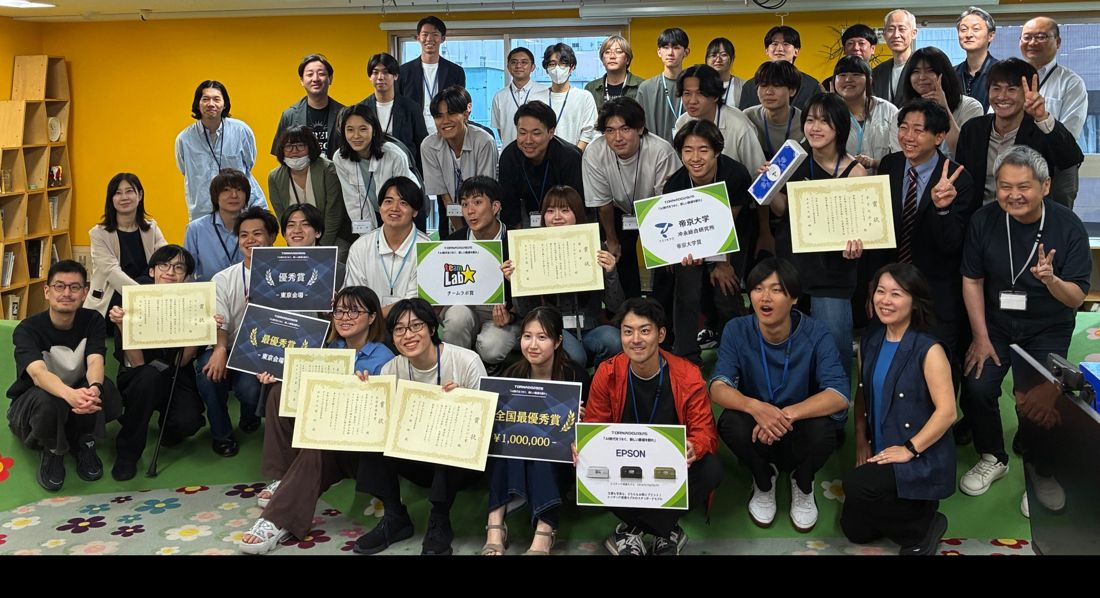
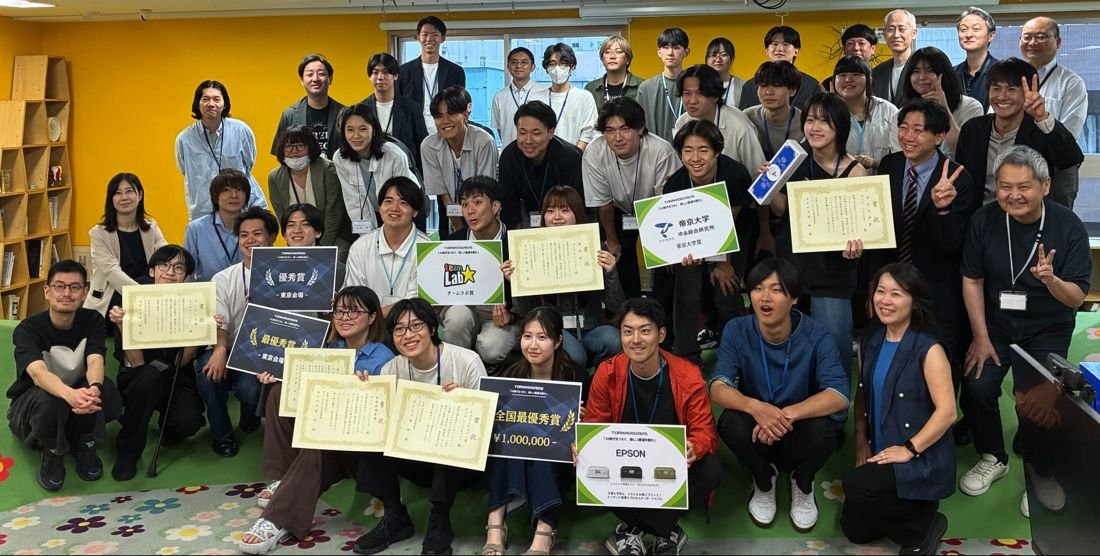
Show photos uncropped at natural aspect ratio
Claude-Session: https://claude.ai/code/session_01Q8KcYkazFbKCwR22VqtSzh

diff --git a/index.html b/index.html
@@ -271,18 +271,12 @@
   @media (max-width: 760px) { #about .facts { grid-template-columns: 1fr; } }
 
 
-  .ch-photos { display: flex; gap: 12px; margin-top: 18px; }
-  .ch-photos figure { flex: 1 1 0; max-width: 300px; }
-  .ch-photos img { width: 100%; height: 300px; object-fit: cover; object-position: center 20%; border-radius: 14px; }
-  .ch-photos figcaption { font-size: 13px; color: var(--sub); margin-top: 6px; }
-  @media (max-width: 560px) { .ch-photos img { height: 180px; } }
-
-
-  .stop-photos { display: flex; gap: 10px; margin-top: 14px; }
-  .stop-photos figure { flex: 1 1 0; }
-  .stop-photos img { width: 100%; height: 210px; object-fit: cover; object-position: center 15%; border-radius: 10px; }
-  .stop-photos figcaption { font-size: 12.5px; color: var(--sub); margin-top: 4px; }
-  @media (max-width: 640px) { .stop-photos { flex-direction: column; } .stop-photos img { height: 170px; } }
+  /* 写真：切り抜かずに元の比率で並べ、行の高さをそろえる */
+  .ch-photos, .stop-photos { display: flex; gap: 12px; margin-top: 18px; max-width: min(680px, 100%); align-items: flex-start; }
+  .ch-photos figure, .stop-photos figure { flex: var(--r, 1) 1 0; min-width: 0; margin: 0; }
+  .ch-photos img, .stop-photos img { display: block; width: 100%; height: auto; border-radius: 12px; }
+  .ch-photos figcaption, .stop-photos figcaption { font-size: 12.5px; color: var(--sub); margin-top: 6px; }
+  @media (max-width: 560px) { .ch-photos { gap: 8px; } .stop-photos { flex-direction: column; } }
 
   .contact-links { display: flex; flex-wrap: wrap; gap: 10px; margin-top: 22px; }
 
@@ -399,7 +393,7 @@
         <div class="ch-body">
           <h3>父の影響で、野球を始める</h3>
           <p>中日ドラゴンズの応援団をしていた父の影響で、3歳から野球を始めました。</p>
-          <div class="ch-photos"><figure><img src="assets/photos/dragons.jpg" alt="中日ドラゴンズの選手と写る幼いころの写真" loading="lazy"><figcaption>ドラゴンズのファンイベントで</figcaption></figure></div>
+          <div class="ch-photos"><figure style="--r:1.349"><img src="assets/photos/dragons.jpg" alt="中日ドラゴンズの選手と写る幼いころの写真" loading="lazy"><figcaption>ドラゴンズのファンイベントで</figcaption></figure></div>
         </div>
       </article>
 
@@ -408,7 +402,7 @@
         <div class="ch-body">
           <h3>仲間と野球に打ち込む</h3>
           <p>中学では仲間と過ごす野球を選び、中3で岐阜県選抜に選ばれました。このときの悔しさが、高校で甲子園を目指すきっかけになりました。</p>
-          <div class="ch-photos"><figure><img src="assets/photos/kid-batting.jpg" alt="小学生のころ打席に立つ写真" loading="lazy"><figcaption>小学生のころ</figcaption></figure><figure><img src="assets/photos/allgifu.jpg" alt="岐阜県選抜のユニフォームで送球する写真" loading="lazy"><figcaption>中学 岐阜県選抜</figcaption></figure></div>
+          <div class="ch-photos"><figure style="--r:0.383"><img src="assets/photos/kid-batting.jpg" alt="小学生のころ打席に立つ写真" loading="lazy"><figcaption>小学生のころ</figcaption></figure><figure style="--r:0.798"><img src="assets/photos/allgifu.jpg" alt="岐阜県選抜のユニフォームで送球する写真" loading="lazy"><figcaption>中学 岐阜県選抜</figcaption></figure></div>
         </div>
       </article>
 
@@ -417,7 +411,7 @@
         <div class="ch-body">
           <h3>選手から、チームを支えるデータアナリストへ</h3>
           <p>関商工の野球部でレギュラーをつかんだ直後にけがをし、約1年プレーできない時期がありました。そこで監督に相談し、対戦相手を分析するデータアナリストに。最後は大会中の練習メニューを任されるまでになりました。復帰後の最後の夏は、県ベスト4。支えてくれた家族への感謝を強く感じた3年間でした。</p>
-          <div class="ch-photos"><figure><img src="assets/photos/hs-swing.jpg" alt="高校の試合でスイングする写真" loading="lazy"><figcaption>関商工 野球部</figcaption></figure><figure><img src="assets/photos/hs-atbat.jpg" alt="高校の試合で打席に向かう写真" loading="lazy"><figcaption>最後の夏</figcaption></figure></div>
+          <div class="ch-photos"><figure style="--r:1.139"><img src="assets/photos/hs-swing.jpg" alt="高校の試合でスイングする写真" loading="lazy"><figcaption>関商工 野球部</figcaption></figure><figure style="--r:0.711"><img src="assets/photos/hs-atbat.jpg" alt="高校の試合で打席に向かう写真" loading="lazy"><figcaption>最後の夏</figcaption></figure></div>
           <blockquote>当たり前のことを、どれだけ当たり前にやるかが成功する道。<cite>高校の監督の言葉</cite></blockquote>
         </div>
       </article>
@@ -477,13 +471,13 @@
         <li class="stop hu"><div class="when">2026.07</div><div class="dot"></div><div class="card themed" style="--theme:#1E6B4A;--logo:url(assets/logo-starbucks.png)"><h3><img src="assets/logo-starbucks.png" alt=""><span><a class="ext" href="https://www.starbucks.co.jp/" target="_blank" rel="noopener">スターバックス</a>でアルバイト</span></h3><p>お客様一人ひとりが満足して帰れる接客を意識。対話から満足をつくる姿勢は、アプリづくりでも一番大事にしている。</p></div></li>
         <li class="stop both"><div class="when">2026.08</div><div class="dot"></div><div class="card themed" style="--theme:#E07B2A;--logo:url(assets/logo-hackit.png)"><h3><img src="assets/logo-hackit.png" alt="">Hackit2026 に運営と出場の両方で参加</h3><p>初めてのハッカソン。アイデア出しの難しさと、チームで形にする面白さを知った。</p></div></li>
         <li class="stop ai"><div class="when">2026.08</div><div class="dot"></div><div class="card themed" style="--theme:#1F3F8F;--logo:url(assets/logo-kit.png)"><h3><img src="assets/logo-kit.png" alt="">夏期集中講座で AI を集中的に学ぶ</h3><p>AIプログラミング入門、AI応用Ⅱ（自然言語処理）、情報ネットワーク基礎、ビジネス思考法入門。数理リテラシー特別講座も2つ修了。</p></div></li>
-        <li class="stop both big"><div class="when">2026.09</div><div class="dot"></div><div class="card themed" style="--theme:#18202B;--logo:url(assets/logo-tornado.png)"><h3><img src="assets/logo-tornado.png" alt="">Tornado2026 で企業賞</h3><p>6人チームのPMとして、地域の困りごとと大学生をつなぐ「Fitt0」を企画。良いものを作るだけでなく、お金になる形にして初めて価値が届くと学んだ。<a class="ext" href="https://www.youtube.com/watch?v=nB_QOWTI4G8" target="_blank" rel="noopener">紹介動画</a></p><div class="stop-photos"><figure><img src="assets/photos/tornado-team.jpg" alt="Tornado2026 で表彰されたチームの写真" loading="lazy"><figcaption>チームDで企業賞を受賞</figcaption></figure><figure><img src="assets/photos/tornado-all.jpg" alt="Tornado2026 東京会場の参加者の集合写真" loading="lazy"><figcaption>東京会場のみんなと</figcaption></figure></div><span class="award">企業賞</span></div></li>
+        <li class="stop both big"><div class="when">2026.09</div><div class="dot"></div><div class="card themed" style="--theme:#18202B;--logo:url(assets/logo-tornado.png)"><h3><img src="assets/logo-tornado.png" alt="">Tornado2026 で企業賞</h3><p>6人チームのPMとして、地域の困りごとと大学生をつなぐ「Fitt0」を企画。良いものを作るだけでなく、お金になる形にして初めて価値が届くと学んだ。<a class="ext" href="https://www.youtube.com/watch?v=nB_QOWTI4G8" target="_blank" rel="noopener">紹介動画</a></p><div class="stop-photos"><figure style="--r:1.491"><img src="assets/photos/tornado-team.jpg" alt="Tornado2026 で表彰されたチームの写真" loading="lazy"><figcaption>チームDで企業賞を受賞</figcaption></figure><figure style="--r:1.978"><img src="assets/photos/tornado-all.jpg" alt="Tornado2026 東京会場の参加者の集合写真" loading="lazy"><figcaption>東京会場のみんなと</figcaption></figure></div><span class="award">企業賞</span></div></li>
         <li class="stop hu"><div class="when">2026.09</div><div class="dot"></div><div class="card themed" style="--theme:#1F3F8F;--logo:url(assets/logo-kit.png)"><h3><img src="assets/logo-kit.png" alt="">学長褒賞（学業）</h3><p>教育補助員を含めた学び合いを進め、学力向上に貢献したことで推薦をいただいた。</p><span class="award">学長褒賞</span></div></li>
         <li class="stop ai"><div class="when">2026.09</div><div class="dot"></div><div class="card themed" style="--theme:#5B2C91;--logo:url(assets/logo-bitgrit.png)"><h3><img src="assets/logo-bitgrit.png" alt="">BitGrit のコンペで 223人中 9位</h3><p>上位4%。LightGBM を中心に、特徴量とパラメータの調整を重ねた。</p></div></li>
         <li class="stop both"><div class="when">2026.10</div><div class="dot"></div><div class="card themed" style="--theme:#E3262E;--logo:url(assets/logo-gnomatic.png)"><h3><img src="assets/logo-gnomatic.png" alt="">Gnomatic で石川県の AI・DX 推進</h3><p>学部4年の先輩たちと、企業との面談で課題を聞き、IT で価値を返す活動を始めた。都市ではない地域ほど AI・DX が遅れていると感じた。</p></div></li>
         <li class="stop ai"><div class="when">2026.10</div><div class="dot"></div><div class="card themed" style="--theme:#1F3F8F;--logo:url(assets/logo-kit.png)"><h3><img src="assets/logo-kit.png" alt="">山本研究室の研究室体験</h3><p>母校の野球部と連携し、測定会のデータを見える化するアプリを開発中。研究テーマは「高校野球選手の冬季トレーニングと体組成」。</p></div></li>
         <li class="stop ai"><div class="when">2026.10</div><div class="dot"></div><div class="card themed" style="--theme:#3F9BE0;--logo:url(assets/logo-jphacks.png)"><h3><img src="assets/logo-jphacks.png" alt="">JPHACKS 2026 に出場</h3><p>旅行の行き先を地図から選べる Web アプリ「<a class="ext" href="https://kz-2609.vercel.app/" target="_blank" rel="noopener">旅行どこいこう</a>」を開発。</p></div></li>
-        <li class="stop hu"><div class="when">2026.10</div><div class="dot"></div><div class="card"><h3>100km 歩行を完歩</h3><p>寝る間もなく足が限界になる中、仲間と助け合って歩き切った。</p><div class="stop-photos"><figure><img src="assets/photos/walk100.jpg" alt="100km歩行のゴールで仲間と記念撮影" loading="lazy" style="height:auto;aspect-ratio:1740/1270;object-position:center"><figcaption>工大祭 100km歩行。一緒に歩いた仲間とゴールで</figcaption></figure></div></div></li>
+        <li class="stop hu"><div class="when">2026.10</div><div class="dot"></div><div class="card"><h3>100km 歩行を完歩</h3><p>寝る間もなく足が限界になる中、仲間と助け合って歩き切った。</p><div class="stop-photos"><figure style="--r:1.370"><img src="assets/photos/walk100.jpg" alt="100km歩行のゴールで仲間と記念撮影" loading="lazy"><figcaption>工大祭 100km歩行。一緒に歩いた仲間とゴールで</figcaption></figure></div></div></li>
         <li class="stop hu"><div class="when">2026.11</div><div class="dot"></div><div class="card themed" style="--theme:#18202B;--logo:url(assets/logo-devhub.png)"><h3><img src="assets/logo-devhub.png" alt=""><span><a class="ext" href="https://developershub.jp/" target="_blank" rel="noopener">Developers Hub</a> でスポンサー企業と面談</span></h3><p>2027年9月の<a class="ext" href="https://hokuriku-it-conf.com/" target="_blank" rel="noopener">北陸ITカンファレンス</a>に向けて、スポンサーチームとして企業との面談を重ねた。</p></div></li>
         <li class="stop ai"><div class="when">2026.11</div><div class="dot"></div><div class="card themed" style="--theme:#D9662B;--logo:url(assets/logo-laime.png)"><h3><img src="assets/logo-laime.png" alt="">LAIME Kaggle Dojo 第3期生</h3><p>Kaggle Grandmaster・Master の指導のもと、メダル獲得を目指す半年間のプログラム。</p></div></li>
         <li class="stop ai"><div class="when">2026.11</div><div class="dot"></div><div class="card themed devfest" style="--theme:#4285F4;--logo:url(assets/logo-devfest.png)"><h3><img src="assets/logo-devfest.png" alt="">DevFest GDGoC Japan Hackathon 2026</h3><p>Google Cloud と Gemini を使ったプロダクト開発に挑戦中。</p></div></li>

diff --git a/en/index.html b/en/index.html
@@ -271,18 +271,12 @@
   @media (max-width: 760px) { #about .facts { grid-template-columns: 1fr; } }
 
 
-  .ch-photos { display: flex; gap: 12px; margin-top: 18px; }
-  .ch-photos figure { flex: 1 1 0; max-width: 300px; }
-  .ch-photos img { width: 100%; height: 300px; object-fit: cover; object-position: center 20%; border-radius: 14px; }
-  .ch-photos figcaption { font-size: 13px; color: var(--sub); margin-top: 6px; }
-  @media (max-width: 560px) { .ch-photos img { height: 180px; } }
-
-
-  .stop-photos { display: flex; gap: 10px; margin-top: 14px; }
-  .stop-photos figure { flex: 1 1 0; }
-  .stop-photos img { width: 100%; height: 210px; object-fit: cover; object-position: center 15%; border-radius: 10px; }
-  .stop-photos figcaption { font-size: 12.5px; color: var(--sub); margin-top: 4px; }
-  @media (max-width: 640px) { .stop-photos { flex-direction: column; } .stop-photos img { height: 170px; } }
+  /* 写真：切り抜かずに元の比率で並べ、行の高さをそろえる */
+  .ch-photos, .stop-photos { display: flex; gap: 12px; margin-top: 18px; max-width: min(680px, 100%); align-items: flex-start; }
+  .ch-photos figure, .stop-photos figure { flex: var(--r, 1) 1 0; min-width: 0; margin: 0; }
+  .ch-photos img, .stop-photos img { display: block; width: 100%; height: auto; border-radius: 12px; }
+  .ch-photos figcaption, .stop-photos figcaption { font-size: 12.5px; color: var(--sub); margin-top: 6px; }
+  @media (max-width: 560px) { .ch-photos { gap: 8px; } .stop-photos { flex-direction: column; } }
 
   .contact-links { display: flex; flex-wrap: wrap; gap: 10px; margin-top: 22px; }
 
@@ -399,7 +393,7 @@
         <div class="ch-body">
           <h3>Starting baseball because of my dad</h3>
           <p>My father was part of the Chunichi Dragons cheering squad, and that is how I started playing baseball at age 3.</p>
-          <div class="ch-photos"><figure><img src="../assets/photos/dragons.jpg" alt="A childhood photo with a Chunichi Dragons player" loading="lazy"><figcaption>At a Dragons fan event</figcaption></figure></div>
+          <div class="ch-photos"><figure style="--r:1.349"><img src="../assets/photos/dragons.jpg" alt="A childhood photo with a Chunichi Dragons player" loading="lazy"><figcaption>At a Dragons fan event</figcaption></figure></div>
         </div>
       </article>
 
@@ -408,7 +402,7 @@
         <div class="ch-body">
           <h3>Baseball with my friends</h3>
           <p>In junior high, I chose to play with my friends, and in my third year I was selected for the Gifu Prefecture all-star team. The frustration I felt there made me set my sights on Koshien in high school.</p>
-          <div class="ch-photos"><figure><img src="../assets/photos/kid-batting.jpg" alt="A photo of me at bat in elementary school" loading="lazy"><figcaption>Elementary school</figcaption></figure><figure><img src="../assets/photos/allgifu.jpg" alt="A photo of me throwing in the Gifu all-star uniform" loading="lazy"><figcaption>Junior high, Gifu all-stars</figcaption></figure></div>
+          <div class="ch-photos"><figure style="--r:0.383"><img src="../assets/photos/kid-batting.jpg" alt="A photo of me at bat in elementary school" loading="lazy"><figcaption>Elementary school</figcaption></figure><figure style="--r:0.798"><img src="../assets/photos/allgifu.jpg" alt="A photo of me throwing in the Gifu all-star uniform" loading="lazy"><figcaption>Junior high, Gifu all-stars</figcaption></figure></div>
         </div>
       </article>
 
@@ -417,7 +411,7 @@
         <div class="ch-body">
           <h3>From player to the team&#x27;s data analyst</h3>
           <p>Right after earning a starting spot on the Sekishoko High School team, I got injured and could not play for about a year. I asked the coach if I could help as a data analyst and studied our opponents. In the end, I was trusted to plan the team&#x27;s practice menu during tournaments. After I came back, we reached the top 4 in the prefecture in my final summer. Those three years taught me how grateful I am to my family for their support.</p>
-          <div class="ch-photos"><figure><img src="../assets/photos/hs-swing.jpg" alt="A photo of me swinging in a high school game" loading="lazy"><figcaption>Sekishoko baseball team</figcaption></figure><figure><img src="../assets/photos/hs-atbat.jpg" alt="A photo of me stepping up to bat in a high school game" loading="lazy"><figcaption>My final summer</figcaption></figure></div>
+          <div class="ch-photos"><figure style="--r:1.139"><img src="../assets/photos/hs-swing.jpg" alt="A photo of me swinging in a high school game" loading="lazy"><figcaption>Sekishoko baseball team</figcaption></figure><figure style="--r:0.711"><img src="../assets/photos/hs-atbat.jpg" alt="A photo of me stepping up to bat in a high school game" loading="lazy"><figcaption>My final summer</figcaption></figure></div>
           <blockquote>The road to success is doing the obvious things, obviously well, every time.<cite>Words from my high school coach</cite></blockquote>
         </div>
       </article>
@@ -477,13 +471,13 @@
         <li class="stop hu"><div class="when">2026.07</div><div class="dot"></div><div class="card themed" style="--theme:#1E6B4A;--logo:url(../assets/logo-starbucks.png)"><h3><img src="../assets/logo-starbucks.png" alt=""><span><a class="ext" href="https://www.starbucks.co.jp/" target="_blank" rel="noopener">Starbucks</a> part-time job</span></h3><p>I try to make sure every customer leaves happy. Creating satisfaction through dialogue is also what I value most when building apps.</p></div></li>
         <li class="stop both"><div class="when">2026.08</div><div class="dot"></div><div class="card themed" style="--theme:#E07B2A;--logo:url(../assets/logo-hackit.png)"><h3><img src="../assets/logo-hackit.png" alt="">Hackit2026, as both organizer and participant</h3><p>My first hackathon. I learned how hard idea generation is, and how fun it is to build something as a team.</p></div></li>
         <li class="stop ai"><div class="when">2026.08</div><div class="dot"></div><div class="card themed" style="--theme:#1F3F8F;--logo:url(../assets/logo-kit.png)"><h3><img src="../assets/logo-kit.png" alt="">Intensive summer courses in AI</h3><p>Intro to AI Programming, Applied AI II (Natural Language Processing), Network Fundamentals and Intro to Business Thinking. Also completed two special math literacy courses.</p></div></li>
-        <li class="stop both big"><div class="when">2026.09</div><div class="dot"></div><div class="card themed" style="--theme:#18202B;--logo:url(../assets/logo-tornado.png)"><h3><img src="../assets/logo-tornado.png" alt="">Corporate Award at Tornado2026</h3><p>As PM of a team of six, I planned Fitt0, a service connecting local problems with university students. I learned that value only reaches people when a good product can also make money.<a class="ext" href="https://www.youtube.com/watch?v=nB_QOWTI4G8" target="_blank" rel="noopener">Intro video</a></p><div class="stop-photos"><figure><img src="../assets/photos/tornado-team.jpg" alt="Our team receiving the award at Tornado2026" loading="lazy"><figcaption>Team D won the Corporate Award</figcaption></figure><figure><img src="../assets/photos/tornado-all.jpg" alt="Group photo of everyone at the Tornado2026 Tokyo venue" loading="lazy"><figcaption>With everyone at the Tokyo venue</figcaption></figure></div><span class="award">Corporate Award</span></div></li>
+        <li class="stop both big"><div class="when">2026.09</div><div class="dot"></div><div class="card themed" style="--theme:#18202B;--logo:url(../assets/logo-tornado.png)"><h3><img src="../assets/logo-tornado.png" alt="">Corporate Award at Tornado2026</h3><p>As PM of a team of six, I planned Fitt0, a service connecting local problems with university students. I learned that value only reaches people when a good product can also make money.<a class="ext" href="https://www.youtube.com/watch?v=nB_QOWTI4G8" target="_blank" rel="noopener">Intro video</a></p><div class="stop-photos"><figure style="--r:1.491"><img src="../assets/photos/tornado-team.jpg" alt="Our team receiving the award at Tornado2026" loading="lazy"><figcaption>Team D won the Corporate Award</figcaption></figure><figure style="--r:1.978"><img src="../assets/photos/tornado-all.jpg" alt="Group photo of everyone at the Tornado2026 Tokyo venue" loading="lazy"><figcaption>With everyone at the Tokyo venue</figcaption></figure></div><span class="award">Corporate Award</span></div></li>
         <li class="stop hu"><div class="when">2026.09</div><div class="dot"></div><div class="card themed" style="--theme:#1F3F8F;--logo:url(../assets/logo-kit.png)"><h3><img src="../assets/logo-kit.png" alt="">President&#x27;s Commendation (academics)</h3><p>Recommended for helping classmates learn together, including as a teaching assistant, and raising academic performance.</p><span class="award">President&#x27;s Commendation</span></div></li>
         <li class="stop ai"><div class="when">2026.09</div><div class="dot"></div><div class="card themed" style="--theme:#5B2C91;--logo:url(../assets/logo-bitgrit.png)"><h3><img src="../assets/logo-bitgrit.png" alt="">9th of 223 in a BitGrit competition</h3><p>Top 4%. I iterated on features and parameters, mainly with LightGBM.</p></div></li>
         <li class="stop both"><div class="when">2026.10</div><div class="dot"></div><div class="card themed" style="--theme:#E3262E;--logo:url(../assets/logo-gnomatic.png)"><h3><img src="../assets/logo-gnomatic.png" alt="">Promoting AI and DX in Ishikawa with Gnomatic</h3><p>With senior students, I started meeting companies to hear their problems and give value back through IT. I felt that the further from big cities, the further behind AI and DX are.</p></div></li>
         <li class="stop ai"><div class="when">2026.10</div><div class="dot"></div><div class="card themed" style="--theme:#1F3F8F;--logo:url(../assets/logo-kit.png)"><h3><img src="../assets/logo-kit.png" alt="">Lab experience at Yamamoto Lab</h3><p>Working with my old high school baseball team to build an app that visualizes their measurement data. Research theme: winter training and body composition of high school baseball players.</p></div></li>
         <li class="stop ai"><div class="when">2026.10</div><div class="dot"></div><div class="card themed" style="--theme:#3F9BE0;--logo:url(../assets/logo-jphacks.png)"><h3><img src="../assets/logo-jphacks.png" alt="">Competed in JPHACKS 2026</h3><p>Built &quot;<a class="ext" href="https://kz-2609.vercel.app/" target="_blank" rel="noopener">Ryoko Doko Ikou</a>&quot;, a web app for choosing travel destinations from a map.</p></div></li>
-        <li class="stop hu"><div class="when">2026.10</div><div class="dot"></div><div class="card"><h3>Finished a 100 km walk</h3><p>With no time to sleep and my legs at their limit, my friends and I helped each other to the finish.</p><div class="stop-photos"><figure><img src="../assets/photos/walk100.jpg" alt="At the finish of the 100 km walk with friends" loading="lazy" style="height:auto;aspect-ratio:1740/1270;object-position:center"><figcaption>The finish line of the 100 km walk, with the friends I walked with</figcaption></figure></div></div></li>
+        <li class="stop hu"><div class="when">2026.10</div><div class="dot"></div><div class="card"><h3>Finished a 100 km walk</h3><p>With no time to sleep and my legs at their limit, my friends and I helped each other to the finish.</p><div class="stop-photos"><figure style="--r:1.370"><img src="../assets/photos/walk100.jpg" alt="At the finish of the 100 km walk with friends" loading="lazy"><figcaption>The finish line of the 100 km walk, with the friends I walked with</figcaption></figure></div></div></li>
         <li class="stop hu"><div class="when">2026.11</div><div class="dot"></div><div class="card themed" style="--theme:#18202B;--logo:url(../assets/logo-devhub.png)"><h3><img src="../assets/logo-devhub.png" alt=""><span><a class="ext" href="https://developershub.jp/" target="_blank" rel="noopener">Developers Hub</a> : meeting sponsor companies</span></h3><p>Toward the September 2027 <a class="ext" href="https://hokuriku-it-conf.com/" target="_blank" rel="noopener">Hokuriku IT Conference</a>, I met with many companies as part of the sponsor team.</p></div></li>
         <li class="stop ai"><div class="when">2026.11</div><div class="dot"></div><div class="card themed" style="--theme:#D9662B;--logo:url(../assets/logo-laime.png)"><h3><img src="../assets/logo-laime.png" alt="">LAIME Kaggle Dojo, 3rd cohort</h3><p>A six-month program aiming for medals, mentored by Kaggle Grandmasters and Masters.</p></div></li>
         <li class="stop ai"><div class="when">2026.11</div><div class="dot"></div><div class="card themed devfest" style="--theme:#4285F4;--logo:url(../assets/logo-devfest.png)"><h3><img src="../assets/logo-devfest.png" alt="">DevFest GDGoC Japan Hackathon 2026</h3><p>Building a product with Google Cloud and Gemini.</p></div></li>
